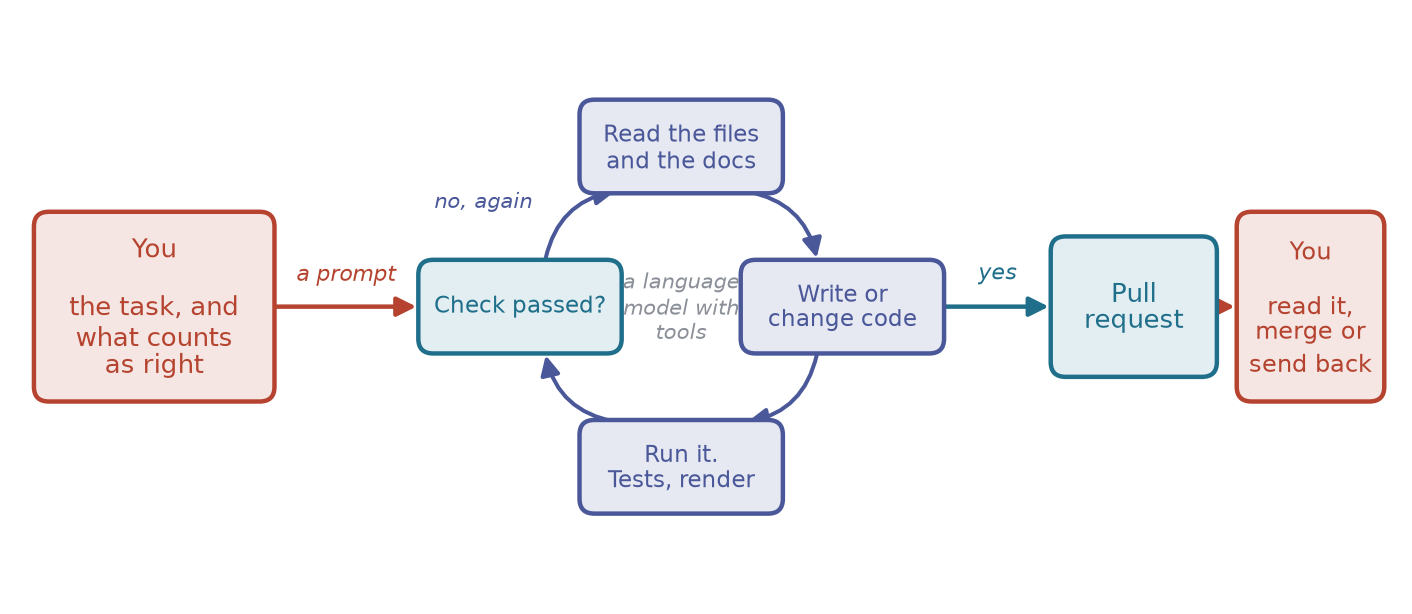
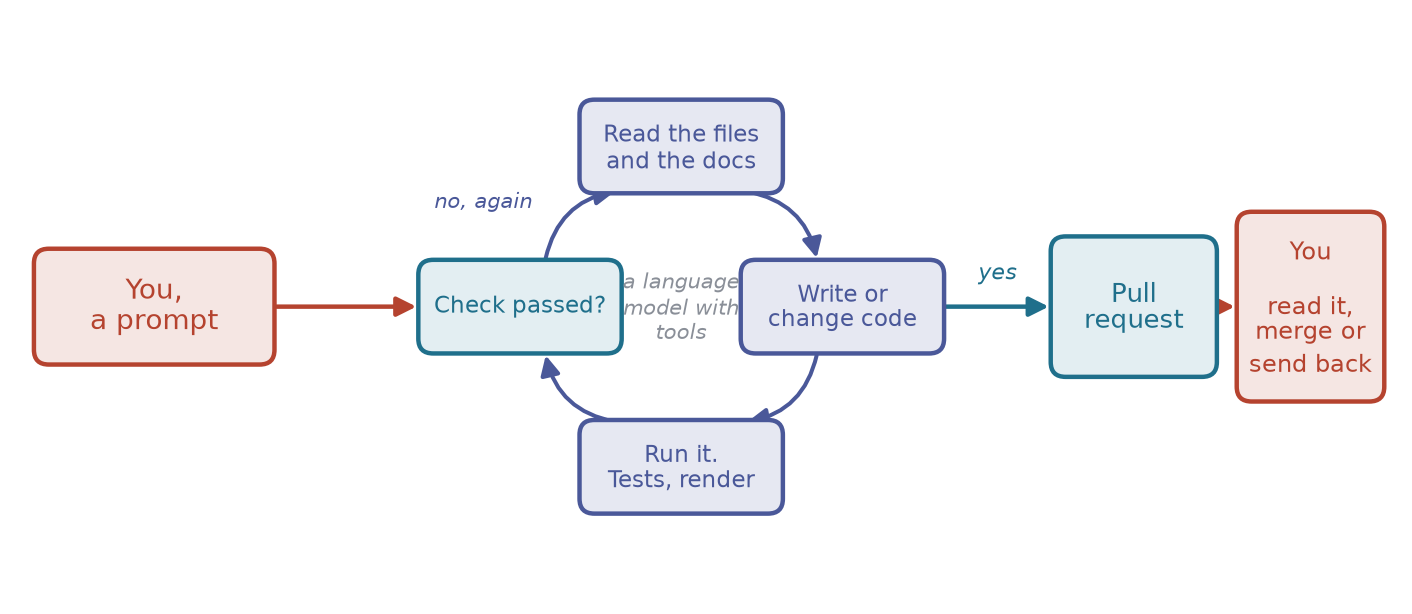
fix: keynote against its audit, his own lines restored
Restores the Julia and Python cross-check bullet and re-deletes the grant
attribution, both of which a later pass had reversed.
Relabels the agent loop box, cuts five long attributions, expands the
acronyms on first use and drops the duplicate McCabe point.

Changed region(s): [[0.0, 0.4642, 0.2181, 0.6808], [0.0, 0.3404, 0.2805, 0.4642]]

diff --git a/scripts/keynote-schematics.py b/scripts/keynote-schematics.py
@@ -448,11 +448,9 @@ def inner_loop(ax, cx, cy, r=1.35, fs=10.5):
 
 def agent_1():
     fig, ax = canvas(11, 4.6)
-    box(ax, 0.1, 1.55, 1.9, 1.5, "You\n\nthe task, and\nwhat counts\nas right",
-        colour=BRICK, fs=11.5)
+    box(ax, 0.1, 1.85, 1.9, 0.9, "You,\na prompt", colour=BRICK, fs=12.5)
     inner_loop(ax, 5.3, 2.3, r=1.3)
     arrow(ax, (2.0, 2.3), (3.2, 2.3), colour=BRICK, lw=2)
-    label(ax, 2.6, 2.55, "a prompt", colour=BRICK, fs=10, style="italic")
     box(ax, 8.3, 1.75, 1.3, 1.1, "Pull\nrequest", colour=TEAL, fs=11.5)
     arrow(ax, (7.4, 2.3), (8.3, 2.3), colour=TEAL, lw=2)
     label(ax, 7.85, 2.55, "yes", colour=TEAL, fs=10, style="italic")

diff --git a/notes/fix-keynote-audit.md b/notes/fix-keynote-audit.md
@@ -1,0 +1,161 @@
+# Acting on the keynote audit
+
+Worked 13 September 2026 from `notes/audit-keynote.md`, against the deck at
+`e6962b5`.
+Changed `keynote/_partials/*.qmd` and `scripts/keynote-schematics.py`, and
+redrew `figures/keynote-agent-1.png`.
+Not committed.
+Line numbers are for the files as they now stand.
+
+## A. Reversals of his own edits, undone
+
+### The sitrep data slide, his Julia and Python cross-check bullet
+
+`03-agents.qmd:104-105`.
+In `02ca043` he deleted the nowcasting bullet and wrote:
+
+> These are cross checked again using multiple agents and using digistiers
+> written in both Python and Julia.
+
+`3efb99e` deleted that and put the nowcasting bullet back.
+His bullet is restored as "These are cross-checked again by several agents,
+and by digitisers written in both Python and Julia".
+
+The nowcasting point is kept as well, at `03:106-107`, because it is also his
+(12 September note) and the brief said not to cut bullets for density.
+It no longer displaces his line, and its bolted-on tail is gone: "That is a
+nowcasting problem, and it is in the model" is now "That nowcasting problem is
+in the model".
+
+### The grant attribution under the renewal-layer schematic
+
+`02-ai-methods.qmd:145-149`.
+He deleted three lines of grant attribution in `02ca043`.
+A later commit restored a one-line version, "The composable modelling grant,
+Abbott, Funk et al. 2026".
+Deleted again.
+The attribution is now Samuel Brand's repository and Pervez et al. 2024.
+
+### Other lines of his that later commits overwrote
+
+I checked every line he added or changed in `02ca043` against the current
+files.
+Two more are not as he left them.
+
+1. `02-ai-methods.qmd:75`. He wrote "Rackauckas et al. 2020c"; it now reads
+   "Rackauckas et al. 2020".
+   Left as 2020, because there is no 2020a or 2020b in the deck for the
+   suffix to distinguish, so it reads as a stray citekey letter.
+   Say the word and I will put the c back.
+2. `03-agents.qmd:167-168`. His sentence "The workflow is what kept it
+   reviewable" was dropped when three of his sentences were merged into one
+   bullet.
+   His other two sentences on that bullet survive.
+   Left out, as it is a moral tacked on the end of the bullet, but it is his
+   line and it is your call.
+
+Everything else of his survives, including the "What even is AI?" list, the
+"My view" and "And yet" quote slides in his order, the RL title parenthetical,
+all the TODO answers, and "Who gets to do this".
+
+## B. Mechanical fixes
+
+### The agent loop figure
+
+`scripts/keynote-schematics.py:451`, in `agent_1()`.
+The left box read "You / the task, and what counts as right".
+It now reads "You, a prompt".
+The arrow's separate italic "a prompt" label was removed, since the box now
+carries the words.
+`figures/keynote-agent-1.png` redrawn; alt text at `03-agents.qmd:12-15`
+matches.
+
+Note: the figure lives in `keynote-schematics.py`, not
+`keynote-agent-figures.py` as the brief said.
+`keynote-agent-figures.py` only draws `keynote-agent-wrong.png`.
+
+### Source line under the tree schematic
+
+Deleted, at what was `03-agents.qmd:271-274`.
+The loop and tree schematics now both carry no attribution.
+
+### Over-long attributions, cut to author, year, venue or URL
+
+| Slide | File | Was | Now |
+|---|---|---|---|
+| Early Wuhan estimates | `01:154-157` | four lines ending "EpiNow repository created 15 March 2020" | figure credit, Hellewell et al., the blog post |
+| Refit on every push | `01:388-390` | three lines with `results-43` to `results-1699` | "[BVDOutbreakSize], live · release counts from the GitHub API, 11 September 2026" |
+| Refit on every push, hidden fallback | `01:419-421` | four lines with the same release ids | release and date, then the API |
+| What keeps going wrong | `01:468-470` | named `data/onset_curve_scanned.csv` and `scripts/keynote-onset-vintages.py` | "[BVDOutbreakSize], read 11 September 2026" |
+| Google tree search | `03:297-302` | eight lines carrying facts | three authors-and-URL lines |
+
+Two facts from the Google attribution moved into bullets rather than being
+dropped: "142 prompts in three families" onto `03:279-280`, and the ranking
+"first of 43 eligible FluSight, 12 COVID-19 and 4 RSV submissions" onto
+`03:281-283`.
+
+### Acronyms
+
+| Acronym | Where | What I did |
+|---|---|---|
+| PHEIC | `01:19-20`, the first-slide attribution | dropped from the attribution; the timeline entries are now "mpox, WHO, 23 July 2022" and "Bundibugyo virus, [WHO DON602], 17 May 2026". First body use, `01:242-243` on the mpox slide, already spells it out, and `01:319` follows it |
+| BVD | same attribution | gone with the above. Only `BVDOutbreakSize`, a repository name, is left |
+| UKHSA | `01:35` | expanded to "the UK Health Security Agency (UKHSA)" at first use. The later title and bullets can now use the short form |
+| SEIR | `02:166` | "an SEIR model, SIR plus an exposed class". SIR itself is spelled out on the UDE slide, which comes first |
+| INRB-UMIE | `03:99`, `03:119` | dropped from the bullet, which now reads "Where a public transcription has the same series". Kept in the attribution as a source name. I could not verify what UMIE stands for, and neither could the earlier research pass (`notes/k3-report.md:21`) |
+| SAI | `03:272` | dropped from the title, which is now "Google's tree search topped the CDC forecast hubs". The team folders `Google_SAI-*` stay in the attribution |
+
+### Retitle
+
+`03-agents.qmd:186`.
+"Digitising from figures, and what went wrong" is now "Digitising the onset
+curve".
+The promise tail is the shape you cut.
+
+### The duplicate McCabe replication
+
+Section 1 keeps it, at `01:347` ("We replicated it on 19 May, in a few
+hours").
+Section 3's repeat at `03:158-159` is gone.
+Your following sentence survives, merged into one bullet at `03:159-160`:
+"Issues with the McCabe et al. Imperial College report were addressed, and
+every stream they had used was fitted jointly".
+This is the one place where I cut a line you wrote in `02ca043`, because the
+brief was explicit that the repeat goes and the section 1 version stays.
+
+## C. The UKHSA installation bullet
+
+Left as fact at `01:280-281`, with no hedge, as instructed.
+
+The cited paper does support it.
+Overton, Abbott et al. 2023, PLOS Computational Biology, says the permissions
+needed on the managed IT systems UKHSA used for the mpox data meant Bayesian
+nowcasting packages could not be used, and that generalised additive models
+in `mgcv` were chosen because they were easy to implement and efficient to
+run, with computational tractability and reliability vital to delivering
+weekly.
+
+So the claim is the paper's, not only your recollection.
+The one word that is not quite the paper's is "install": the paper gives
+permissions on a managed system as the reason.
+If you want it exact, "UKHSA could not run Bayesian nowcasting packages on the
+systems holding the data" is what the paper says.
+
+## Checks
+
+`quarto render keynote/slides.qmd` completes with no warnings.
+`./scripts/lint.sh` is clean.
+
+## Left for you
+
+- Whether "Rackauckas et al. 2020c" should keep its c (`02:75`).
+- Whether "The workflow is what kept it reviewable" should come back
+  (`03:167`).
+- The centre italic "a language model with tools" in `keynote-agent-1.png`
+  overlaps the "Write or change code" box. This predates my change and the
+  label comes from `inner_loop()`, which `keynote-agent-2.png` also uses, so
+  fixing it moves two figures. Out of the scope I was given.
+- Everything else in the audit that was not in my scope: slide count and
+  density, the Ebola figure split, the abstract line "where real-time
+  modelling arrived in public view", the Charlotte Holt photo, and
+  "Watched from a PhD on tuberculosis vaccination".
